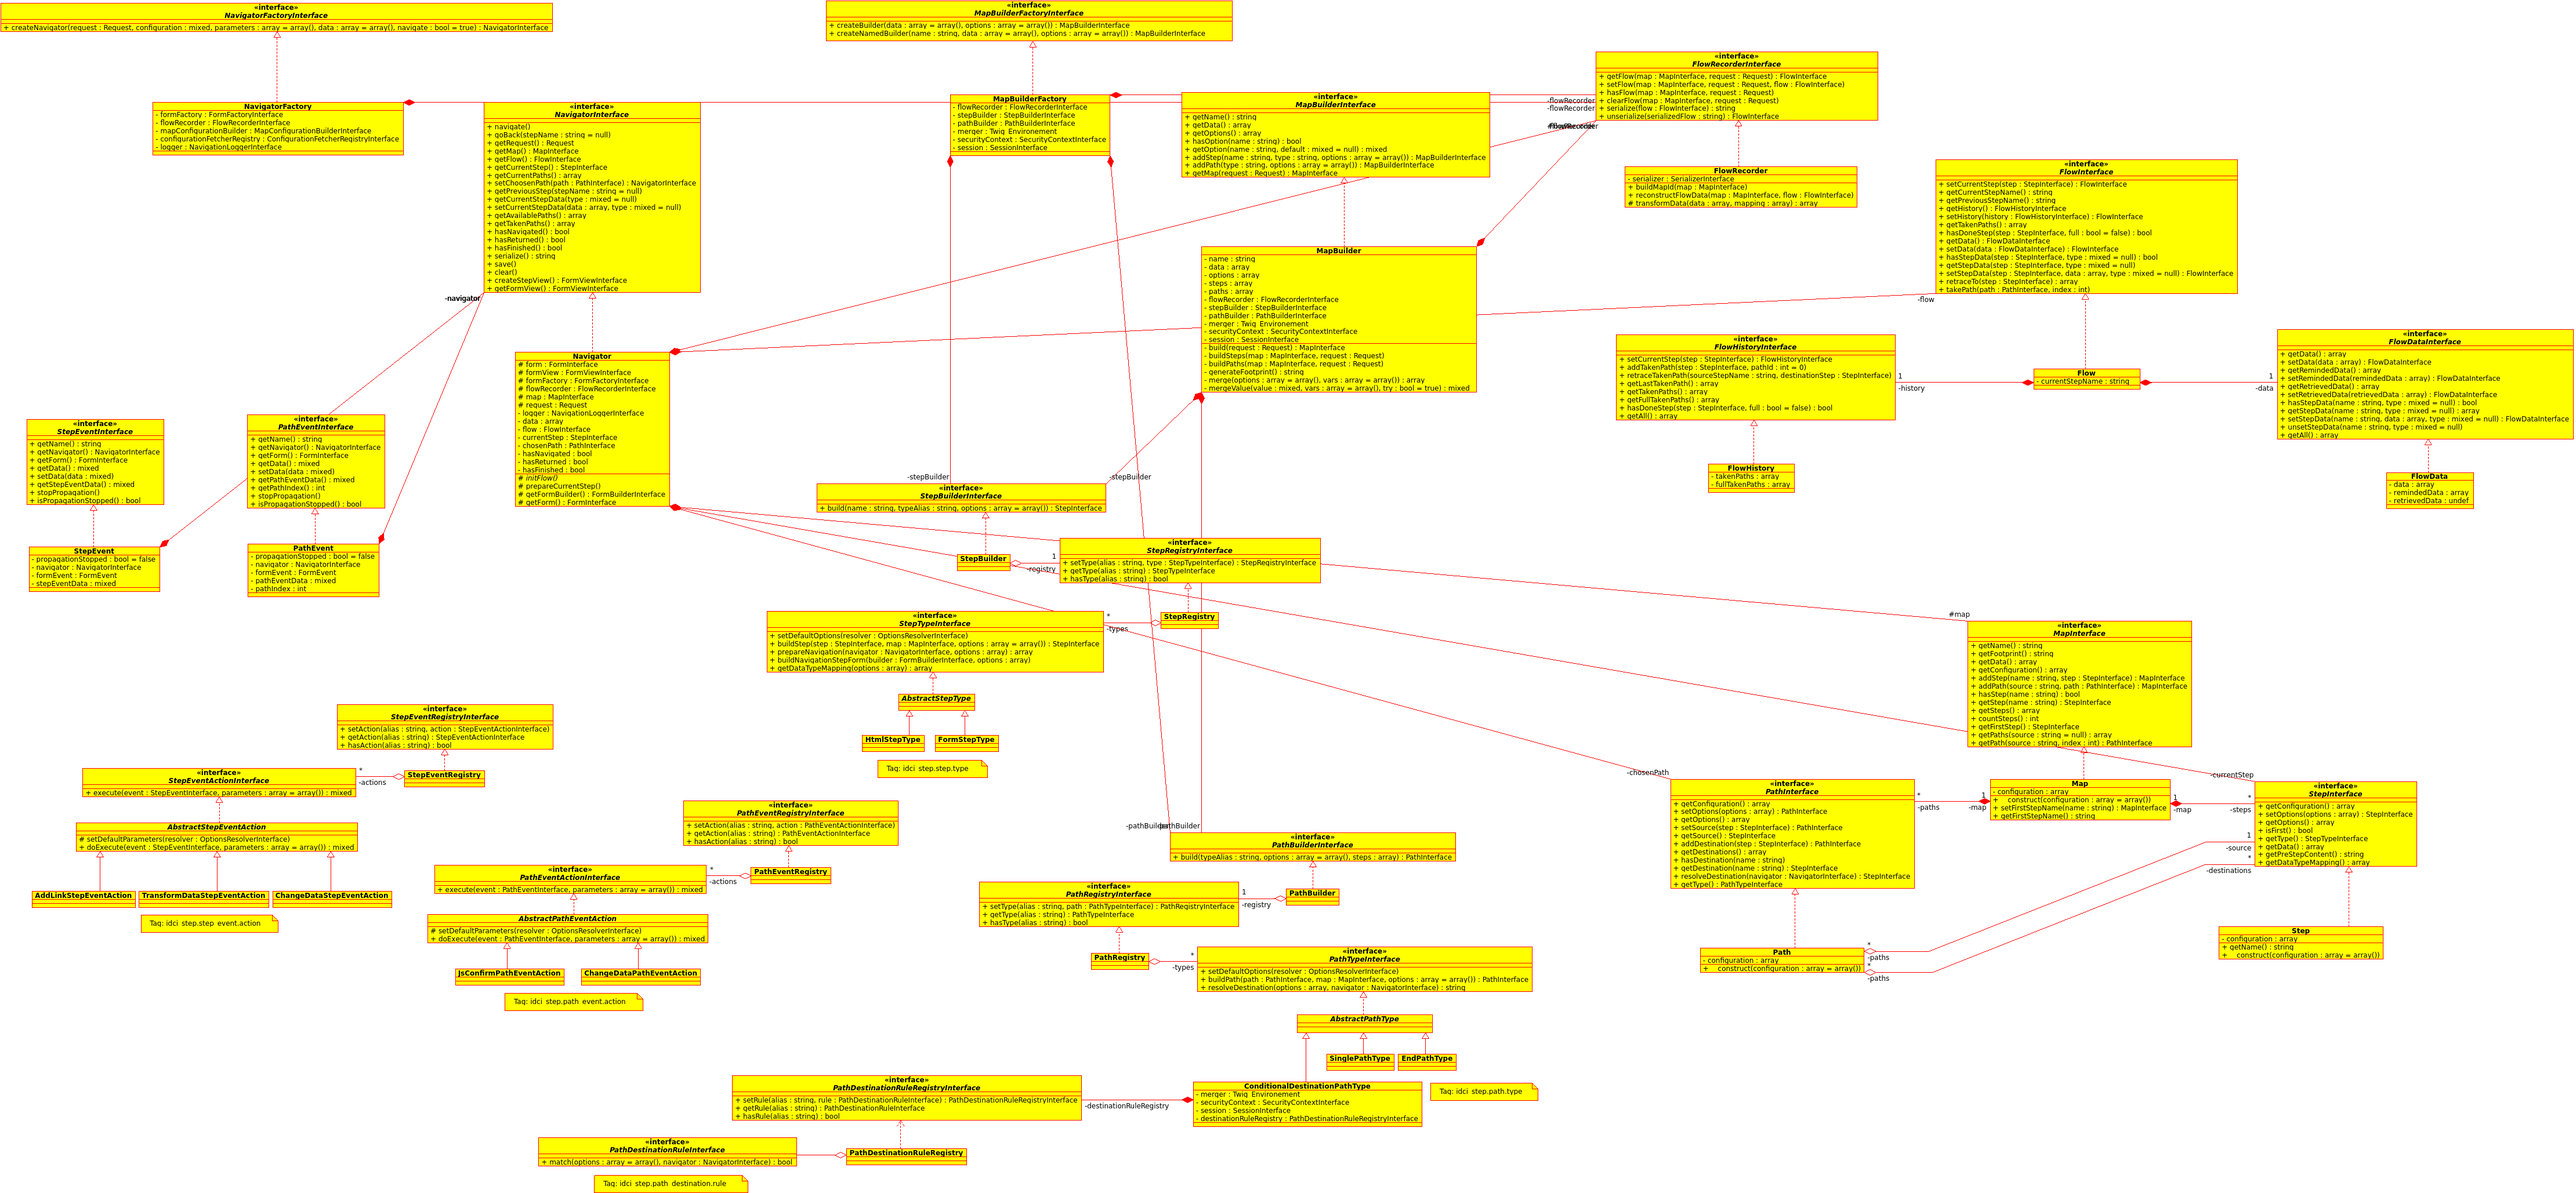
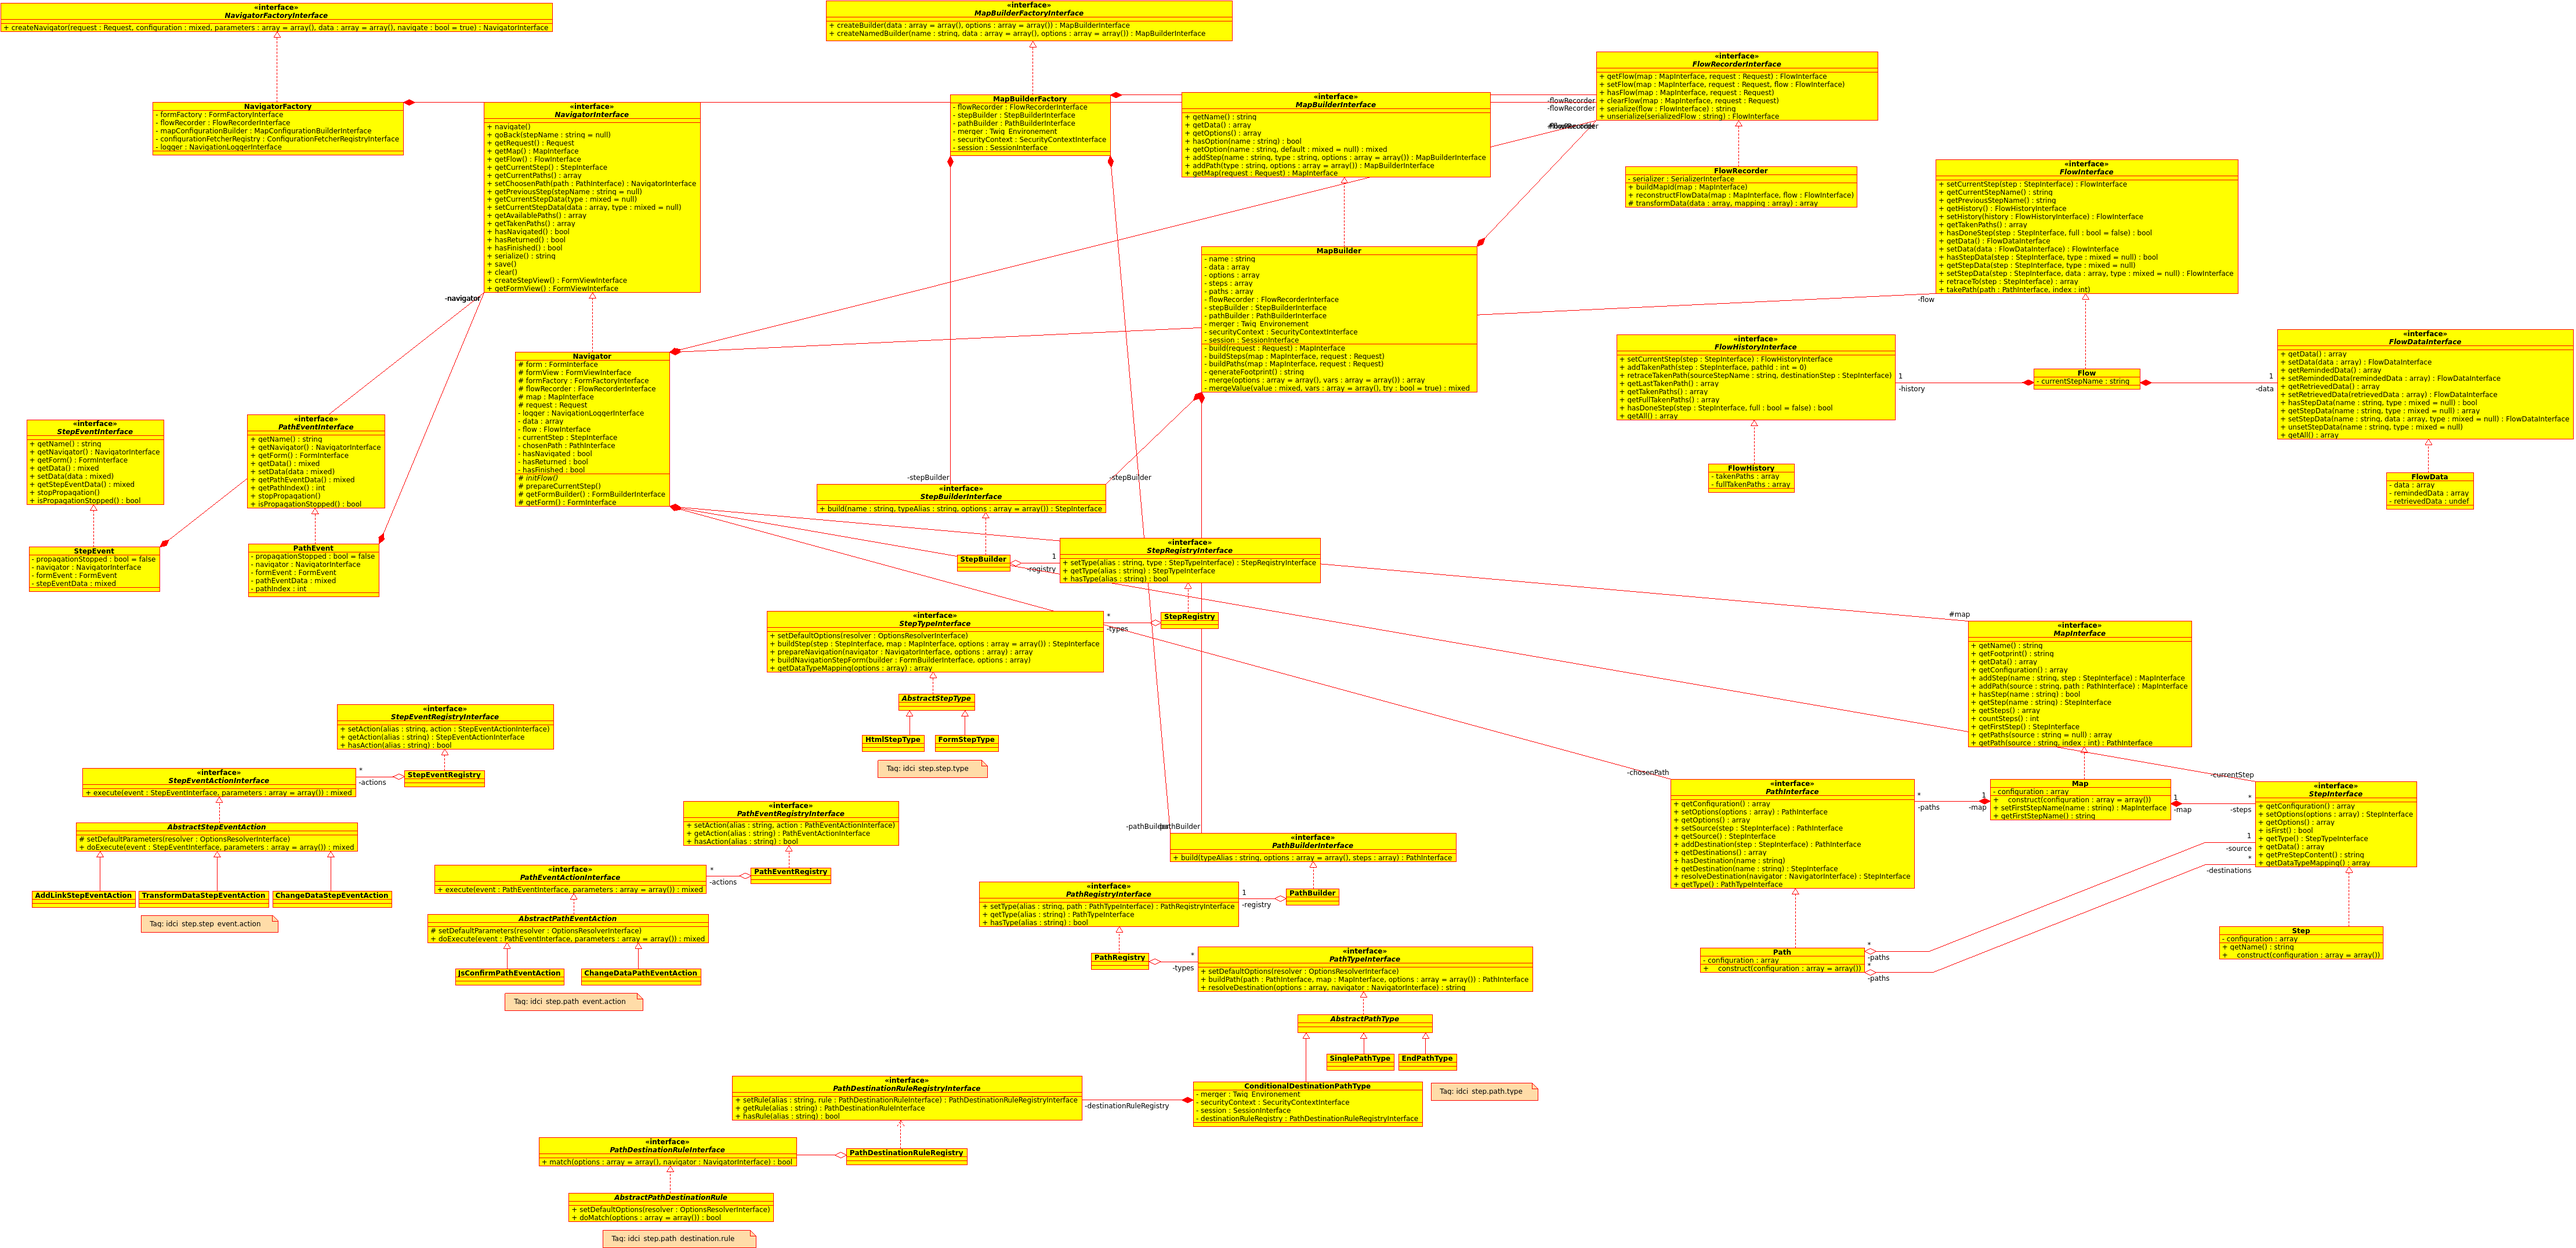
Add abstract path destination rule, merge options before call the match

diff --git a/Path/Type/ConditionalDestinationPathType.php b/Path/Type/ConditionalDestinationPathType.php
@@ -100,7 +100,16 @@ class ConditionalDestinationPathType extends AbstractPathType
 
         foreach ($options['destinations'] as $name => $rules) {
             if (is_array($rules)) {
-                if ($this->matchPathDestinationRule($rules, $navigator)) {
+                $mergedRules = json_decode(
+                    $this->merger->render(json_encode($rules), array(
+                        'user'      => $user,
+                        'session'   => $this->session->all(),
+                        'flow_data' => $navigator->getFlow()->getData(),
+                    )),
+                    true
+                );
+
+                if ($this->matchPathDestinationRule($mergedRules)) {
                     return $name;
                 }
 
@@ -124,17 +133,16 @@ class ConditionalDestinationPathType extends AbstractPathType
     /**
      * Match the given path destination rules.
      *
-     * @param NavigatorInterface $navigator  The navigator.
-     * @param array              $rules      The rules to check.
+     * @param array $rules The rules to check.
      *
      * @return boolean Return true if the rule match, false otherwise.
      */
-    private function matchPathDestinationRule(array $rules, NavigatorInterface $navigator)
+    private function matchPathDestinationRule(array $rules)
     {
         foreach ($rules as $alias => $options) {
             $destinationRule = $this->destinationRuleRegistry->getRule($alias);
 
-            if (!$destinationRule->match($options, $navigator)) {
+            if (!$destinationRule->match($options)) {
                 return false;
             }
         }

diff --git a/Path/DestinationRule/AbstractPathDestinationRule.php b/Path/DestinationRule/AbstractPathDestinationRule.php
@@ -1,0 +1,44 @@
+<?php
+
+/**
+ * @author:  Gabriel BONDAZ <gabriel.bondaz@idci-consulting.fr>
+ * @license: MIT
+ */
+
+namespace IDCI\Bundle\StepBundle\Path\DestinationRule;
+
+use Symfony\Component\OptionsResolver\OptionsResolverInterface;
+use Symfony\Component\OptionsResolver\OptionsResolver;
+
+abstract AbstractPathDestinationRule
+{
+    /**
+     * {@inheritdoc}
+     */
+    public function match(array $options = array())
+    {
+        $resolver = new OptionsResolver();
+        $this->setDefaultOptions($resolver);
+
+        return $this->doMatch($resolver->resolve($options));
+    }
+
+    /**
+     * Set default options.
+     *
+     * @param OptionsResolverInterface $resolver
+     */
+    protected function setDefaultOptions(OptionsResolverInterface $resolver)
+    {
+    }
+
+    /**
+     * Do match
+     *
+     * @param array              $options   The options to match.
+     * @param NavigatorInterface $navigator The navigator.
+     *
+     * @return boolean Return true if the destination rule match.
+     */
+    abstract protected function doMatch(array $options = array());
+}

diff --git a/Path/DestinationRule/PathDestinationRuleInterface.php b/Path/DestinationRule/PathDestinationRuleInterface.php
@@ -7,17 +7,14 @@
 
 namespace IDCI\Bundle\StepBundle\Path\DestinationRule;
 
-use IDCI\Bundle\StepBundle\Navigation\NavigatorInterface;
-
 interface PathDestinationRuleInterface
 {
     /**
      * Match
      *
-     * @param array              $options   The options to match.
-     * @param NavigatorInterface $navigator The navigator.
+     * @param array $options   The options to match.
      *
      * @return boolean Return true if the destination rule match.
      */
-    public function match(array $options = array(), NavigatorInterface $navigator);
+    public function match(array $options = array());
 }
